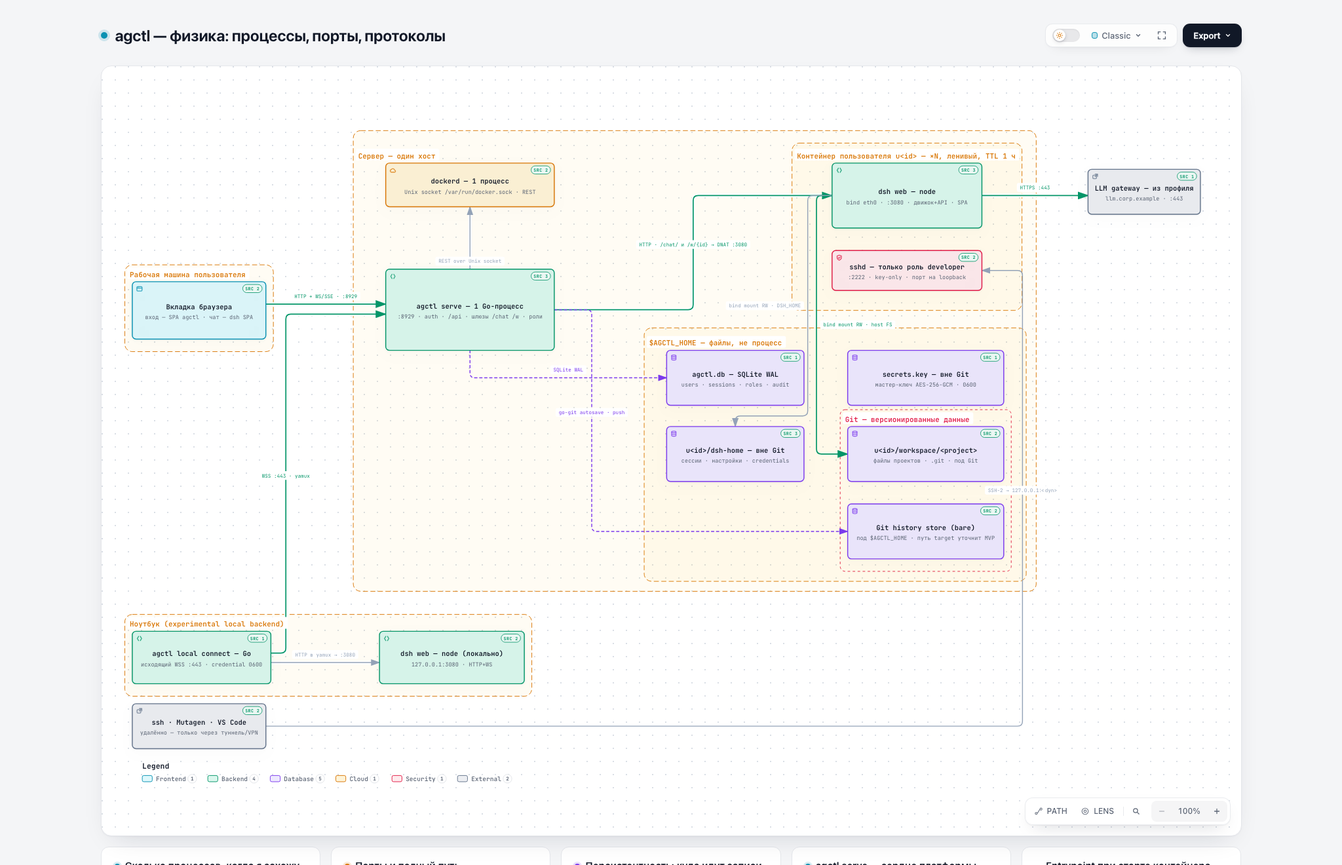
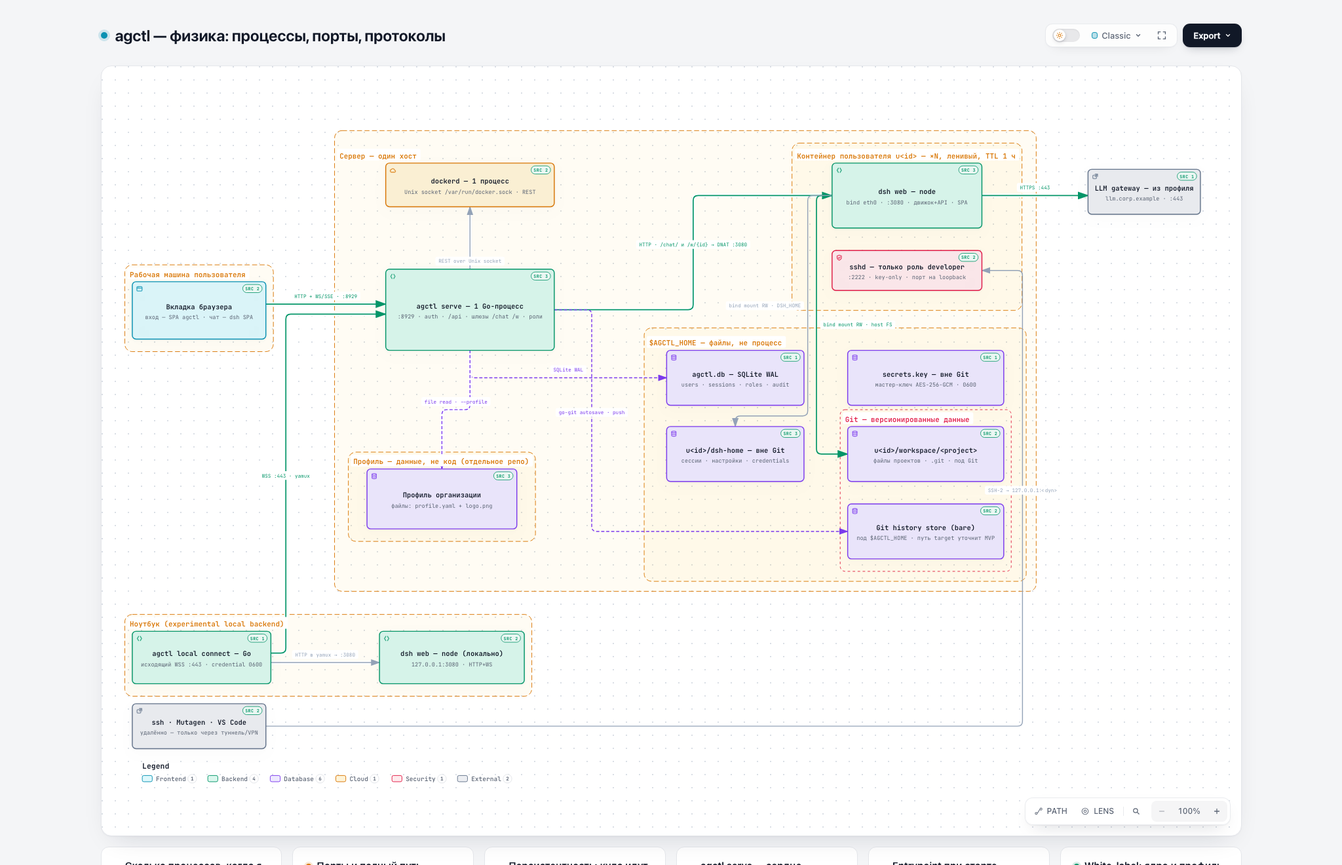
map: white-label слой на физической карте - узел 'Профиль организации' (файлы, не код) в рамке 'Профиль — данные, не код (отдельное репо)', стрелка file read --profile, карточка 'White-label: ядро и профиль', вью v-wl; finalize pass по пину 72fa4218, visual-check свежий

diff --git a/system/map/agctl-processes.html b/system/map/agctl-processes.html
@@ -4982,7 +4982,7 @@ OTHER DEALINGS IN THE FONT SOFTWARE.
       </div>
     </div>
 
-    <script id="archify-source-evidence-data" type="application/json">{"schemaVersion":1,"verified":true,"repository":{"url":"git@github.com:arijjia/agctl","revision":"72fa4218b5ed4935747efb2a39e884a15bf21912","shortRevision":"72fa421","label":"arijjia/agctl","linkMode":"local-only"},"referenceCount":27,"nodes":{"browser":[{"path":"internal/server/server.go","line":318,"endLine":330,"label":"корень: вход → /chat/, сессия → /chat/"},{"path":"internal/server/chatshell.go","line":3,"endLine":27,"label":"pre-paint чат-шелла + brand-boot"}],"serve":[{"path":"cmd/agctl/main.go","line":143,"endLine":264,"label":"cmdServe startup + HTTP listener"},{"path":"internal/server/server.go","line":221,"endLine":311,"label":"API/gateway routes + auth middleware"},{"path":"internal/server/chat.go","line":505,"endLine":581,"label":"lazy per-user runtime + TTL reaper"}],"dockerd":[{"path":"internal/runtime/dockerrt/docker.go","line":54,"label":"docker-клиент (FromEnv)"},{"path":"internal/runtime/dockerrt/docker.go","line":270,"endLine":276,"label":"публикация портов на 127.0.0.1"}],"agdb":[{"path":"cmd/agctl/main.go","line":210,"endLine":213,"label":"store.Open($AGCTL_HOME/agctl.db)"}],"seckey":[{"path":"cmd/agctl/main.go","line":202,"endLine":209,"label":"EnsureMasterKey + secrets.New"}],"dshhome":[{"path":"internal/runtime/dockerrt/chat.go","line":24,"endLine":27,"label":"per-user persistent directories"},{"path":"internal/runtime/dockerrt/docker.go","line":288,"endLine":291,"label":"dsh-home → /home/dsh bind"},{"path":"internal/assets/image/entrypoint.sh","line":10,"endLine":15,"label":"seed при первом старте"}],"wkspace":[{"path":"internal/runtime/dockerrt/chat.go","line":24,"endLine":27,"label":"per-user persistent directories"},{"path":"internal/runtime/dockerrt/docker.go","line":288,"endLine":291,"label":"work → /workspace bind"}],"gitstore":[{"path":"internal/provision/provision.go","line":1,"endLine":5,"label":"bare-origin + клон + autosave"},{"path":"internal/provision/provision.go","line":508,"endLine":544,"label":"AutosaveOnce: commit+push"}],"dshchat":[{"path":"internal/assets/image/entrypoint.sh","line":49,"endLine":51,"label":"выбор eth0-IP + exec dsh web"},{"path":"internal/assets/image/dsh-net.mjs","line":5,"endLine":21,"label":"print: адрес eth0; health: HTTP-проба"},{"path":"internal/runtime/dockerrt/chat.go","line":17,"endLine":71,"label":"EnsureChat: seed + Start (+SSH developer)"}],"sshd":[{"path":"internal/assets/image/entrypoint.sh","line":27,"endLine":46,"label":"sshd только при AGCTL_SSH_PUBKEY"},{"path":"internal/server/chat.go","line":560,"endLine":565,"label":"ключ — только у роли developer"}],"llm":[{"path":"internal/runtime/dockerrt/docker.go","line":251,"endLine":260,"label":"host-gateway + DNS-пины провайдеров"}],"sshclient":[{"path":"cmd/agctl/connect.go","line":12,"endLine":20,"label":"agctl connect"},{"path":"internal/runtime/dockerrt/docker.go","line":273,"endLine":275,"label":"2222 публикуется на loopback"}],"conn":[{"path":"cmd/agctl/local.go","line":22,"endLine":42,"label":"connector: --launch-dsh, WSS"}],"dshlocal":[{"path":"cmd/agctl/local.go","line":32,"endLine":42,"label":"dsh-port 3080, loopback"},{"path":"internal/bridge/bridge.go","line":32,"endLine":43,"label":"authority локального dsh"}]}}</script>
+    <script id="archify-source-evidence-data" type="application/json">{"schemaVersion":1,"verified":true,"repository":{"url":"git@github.com:arijjia/agctl","revision":"72fa4218b5ed4935747efb2a39e884a15bf21912","shortRevision":"72fa421","label":"arijjia/agctl","linkMode":"local-only"},"referenceCount":30,"nodes":{"browser":[{"path":"internal/server/server.go","line":318,"endLine":330,"label":"корень: вход → /chat/, сессия → /chat/"},{"path":"internal/server/chatshell.go","line":3,"endLine":27,"label":"pre-paint чат-шелла + brand-boot"}],"serve":[{"path":"cmd/agctl/main.go","line":143,"endLine":264,"label":"cmdServe startup + HTTP listener"},{"path":"internal/server/server.go","line":221,"endLine":311,"label":"API/gateway routes + auth middleware"},{"path":"internal/server/chat.go","line":505,"endLine":581,"label":"lazy per-user runtime + TTL reaper"}],"dockerd":[{"path":"internal/runtime/dockerrt/docker.go","line":54,"label":"docker-клиент (FromEnv)"},{"path":"internal/runtime/dockerrt/docker.go","line":270,"endLine":276,"label":"публикация портов на 127.0.0.1"}],"agdb":[{"path":"cmd/agctl/main.go","line":210,"endLine":213,"label":"store.Open($AGCTL_HOME/agctl.db)"}],"seckey":[{"path":"cmd/agctl/main.go","line":202,"endLine":209,"label":"EnsureMasterKey + secrets.New"}],"dshhome":[{"path":"internal/runtime/dockerrt/chat.go","line":24,"endLine":27,"label":"per-user persistent directories"},{"path":"internal/runtime/dockerrt/docker.go","line":288,"endLine":291,"label":"dsh-home → /home/dsh bind"},{"path":"internal/assets/image/entrypoint.sh","line":10,"endLine":15,"label":"seed при первом старте"}],"wkspace":[{"path":"internal/runtime/dockerrt/chat.go","line":24,"endLine":27,"label":"per-user persistent directories"},{"path":"internal/runtime/dockerrt/docker.go","line":288,"endLine":291,"label":"work → /workspace bind"}],"gitstore":[{"path":"internal/provision/provision.go","line":1,"endLine":5,"label":"bare-origin + клон + autosave"},{"path":"internal/provision/provision.go","line":508,"endLine":544,"label":"AutosaveOnce: commit+push"}],"dshchat":[{"path":"internal/assets/image/entrypoint.sh","line":49,"endLine":51,"label":"выбор eth0-IP + exec dsh web"},{"path":"internal/assets/image/dsh-net.mjs","line":5,"endLine":21,"label":"print: адрес eth0; health: HTTP-проба"},{"path":"internal/runtime/dockerrt/chat.go","line":17,"endLine":71,"label":"EnsureChat: seed + Start (+SSH developer)"}],"sshd":[{"path":"internal/assets/image/entrypoint.sh","line":27,"endLine":46,"label":"sshd только при AGCTL_SSH_PUBKEY"},{"path":"internal/server/chat.go","line":560,"endLine":565,"label":"ключ — только у роли developer"}],"llm":[{"path":"internal/runtime/dockerrt/docker.go","line":251,"endLine":260,"label":"host-gateway + DNS-пины провайдеров"}],"sshclient":[{"path":"cmd/agctl/connect.go","line":12,"endLine":20,"label":"agctl connect"},{"path":"internal/runtime/dockerrt/docker.go","line":273,"endLine":275,"label":"2222 публикуется на loopback"}],"conn":[{"path":"cmd/agctl/local.go","line":22,"endLine":42,"label":"connector: --launch-dsh, WSS"}],"dshlocal":[{"path":"cmd/agctl/local.go","line":32,"endLine":42,"label":"dsh-port 3080, loopback"},{"path":"internal/bridge/bridge.go","line":32,"endLine":43,"label":"authority локального dsh"}],"profile":[{"path":"internal/profile/profile.go","line":96,"endLine":130,"label":"LoadDir/Resolve: embed + дисковые каталоги"},{"path":"cmd/agctl/main.go","line":147,"endLine":154,"label":"--profile/--profile-dir при старте serve"},{"path":"internal/profile/guard_test.go","line":36,"endLine":40,"label":"ядро без литералов организаций"}]}}</script>
     <script id="archify-i18n-data" type="application/json">{"locale":"en","messages":{"viewer.kind.frontend":"Frontend","viewer.kind.backend":"Backend","viewer.kind.database":"Database","viewer.kind.cloud":"Cloud","viewer.kind.security":"Security","viewer.kind.messagebus":"Message bus","viewer.kind.external":"External","viewer.kind.neutral":"Neutral","viewer.kind.node":"Node","viewer.kind.start":"Start","viewer.kind.active":"Active","viewer.kind.waiting":"Waiting","viewer.kind.decision":"Decision","viewer.kind.success":"Success","viewer.kind.failure":"Failure","viewer.toolbar.actions":"Diagram actions","viewer.theme.toggle.title":"Toggle theme (T)","viewer.theme.toggle":"Toggle color theme","viewer.theme.dark":"Dark","viewer.theme.light":"Light","viewer.preset.choose.title":"Choose visual style (S cycles)","viewer.preset.choose":"Choose visual style","viewer.preset.style":"Style","viewer.preset.menu":"Visual style","viewer.preset.identity":"Visual identity","viewer.preset.cycles":"to cycle","viewer.preset.classic":"Classic","viewer.preset.classic.short":"Classic","viewer.preset.classic.hint":"Stable technical default","viewer.preset.flow":"Signal Flow","viewer.preset.flow.short":"Flow","viewer.preset.flow.hint":"Motion-forward presentation","viewer.preset.blueprint":"Blueprint","viewer.preset.blueprint.hint":"Engineering review","viewer.preset.editorial":"Editorial","viewer.preset.editorial.hint":"Publication and launch notes","viewer.preset.badge.signalFlow":"SIGNAL FLOW","viewer.preset.badge.blueprint":"BLUEPRINT / REV 01","viewer.preset.badge.editorial":"EDITORIAL / FIELD NOTE","viewer.preset.badge.editorialPlate":"ARCHIFY / PLATE 04","viewer.preset.current":"Visual style: {style}. Choose visual style","viewer.motion.live":"Live","viewer.motion.still":"Still","viewer.motion.pause":"Pause motion","viewer.motion.resume":"Resume motion","viewer.motion.reduced":"Motion paused by reduced-motion preference","viewer.motion.hidden":"Motion paused while this page is hidden","viewer.motion.yielding":"Pause motion; currently yielding to {owner}","viewer.motion.yielding.title":"Live preview enabled · yielding to {owner}","viewer.owner.route":"Route Probe","viewer.owner.lens":"Semantic Lens","viewer.owner.relationship":"Relationship Preview","viewer.owner.intent":"Intent Trace","viewer.owner.focus":"semantic focus","viewer.owner.legend":"legend preview","viewer.owner.reader":"reader interaction","viewer.present.enter":"Enter presentation stage","viewer.present.enter.title":"Presentation stage (F)","viewer.present.exit":"Exit presentation stage","viewer.present.exit.title":"Exit presentation stage (F or Escape)","viewer.present.present":"Present","viewer.present.exit.label":"Exit","viewer.export.button":"Export","viewer.export.button.title":"Export diagram (E)","viewer.export.diagram":"Export diagram","viewer.export.menu":"Export","viewer.export.subtitle":"Portable, clean outputs","viewer.export.share":"Share","viewer.export.shareCard":"Share Card","viewer.export.routeShareCard":"Route Share Card","viewer.export.reachShareCard":"Reach Share Card","viewer.export.copyDiagram":"Copy diagram","viewer.export.clipboardPng":"PNG to clipboard","viewer.export.raster":"Raster images","viewer.export.image":"Image","viewer.export.lossless":"Lossless image","viewer.export.compact":"Compact image","viewer.export.modern":"Modern image","viewer.export.vectorMotion":"Vector and motion","viewer.export.vectorMotion.heading":"Vector \u0026 motion","viewer.export.editable":"Editable vector","viewer.export.svg.auto":"SVG · Auto","viewer.export.svg.auto.hint":"Matches host theme","viewer.export.svg.light":"SVG · Light","viewer.export.svg.light.hint":"Always light","viewer.export.svg.dark":"SVG · Dark","viewer.export.svg.dark.hint":"Always dark","viewer.export.motion6s":"6s motion","viewer.export.unsupported":"Not supported by this browser","viewer.export.clipboardUnsupported":"Clipboard image write not supported by this browser","viewer.export.clipboardUnsupported.short":"Clipboard image write not supported in this browser.","viewer.export.motionUnavailable":"Motion capture unavailable in this browser","viewer.export.webmUnavailable":"WebM unavailable in this browser","viewer.export.failed":"Export failed: {message}","viewer.export.unknownVariant":"Unknown Share Card variant: {variant}","viewer.export.routeRequired":"Trace a route before exporting a Route Share Card","viewer.export.reachRequired":"Trace authored reach before exporting a Reach Share Card","viewer.export.unknown":"unknown","viewer.export.routeFailed":"Route Share Card export failed: {message}","viewer.export.reachFailed":"Reach Share Card export failed: {message}","viewer.export.copyFailed":"Copy failed: {message}","viewer.export.copiedPng":"Copied PNG to clipboard","viewer.export.downloadedRoute":"Downloaded Route Share Card","viewer.export.downloadedReach":"Downloaded Reach Share Card","viewer.export.downloadedWebm":"Downloaded WebM","viewer.export.recording":"Recording 6 seconds of motion…","viewer.export.card.routeSummary.one":"Path: {source} → {target} · {count} step","viewer.export.card.routeSummary.other":"Path: {source} → {target} · {count} steps","viewer.export.card.reachSummary":"Authored {direction} from {origin} · {nodes} · {links} · max {hops}","viewer.export.card.node.one":"{count} node","viewer.export.card.node.other":"{count} nodes","viewer.export.card.link.one":"{count} link","viewer.export.card.link.other":"{count} links","viewer.export.card.hop.one":"{count} hop","viewer.export.card.hop.other":"{count} hops","viewer.export.card.routeBadge":"ARCHIFY · ROUTE · {hops}","viewer.export.card.reachBadge":"ARCHIFY · {direction} REACH","viewer.export.direction.upstream":"Upstream","viewer.export.direction.downstream":"Downstream","viewer.export.error.canvasUnavailable":"Canvas unavailable for {label}","viewer.export.error.contextUnavailable":"2D canvas context unavailable for {label}","viewer.export.error.toBlobUnavailable":"canvas.toBlob unavailable for {label}","viewer.export.error.toBlobNull":"canvas.toBlob returned no data for {label}","viewer.export.error.variantsCombined":"Share Card variants cannot be combined","viewer.export.error.viewerState":"Share Card export could not remove temporary viewer state","viewer.export.error.routeState":"Route Card export could not preserve the resolved route safely","viewer.export.error.reachState":"Reach Card export could not preserve authored reach safely","viewer.export.error.webmRequirements":"WebM motion export requires a trace animation and browser MediaRecorder support","viewer.export.error.mediaRecorder":"MediaRecorder failed","viewer.export.error.emptyWebm":"MediaRecorder produced an empty WebM","viewer.export.error.webmBackground":"SVG background could not be loaded for WebM export","viewer.guide.title":"Explore this system","viewer.focus.selectedNodes":"{count} selected nodes","viewer.guide.eyebrow":"Diagram guide","viewer.guide.close":"Close diagram guide","viewer.guide.inspecting":"Inspecting compiled semantics","viewer.guide.actions":"Diagram exploration actions","viewer.guide.find":"Find any node","viewer.guide.find.hint":"Search labels, responsibilities, kinds, and stable IDs.","viewer.guide.route":"Trace a route","viewer.guide.route.aria":"Trace a directed route","viewer.guide.route.hint":"Ask how two semantic nodes connect in authored direction.","viewer.guide.map":"See the whole system","viewer.guide.map.hint":"Open Semantic Radar with a live viewport and stable nodes.","viewer.guide.lens":"Compare semantic kinds","viewer.guide.lens.hint":"Count roles, reveal their traffic, and compare direct authored links.","viewer.guide.present":"Enter Presentation Stage","viewer.guide.present.hint":"Give the live diagram the viewport without changing export.","viewer.guide.shortcuts":"Additional keyboard shortcuts","viewer.guide.shortcut.export":"Export","viewer.guide.shortcut.theme":"Theme","viewer.guide.shortcut.style":"Style","viewer.guide.shortcut.reset":"Reset","viewer.guide.shortcut.zoomIn":"Zoom in","viewer.guide.shortcut.zoomOut":"Zoom out","viewer.guide.shortcut.close":"Close","viewer.guide.facts":"{nodes} · {relationships}","viewer.guide.fact.node.one":"{count} semantic node","viewer.guide.fact.node.other":"{count} semantic nodes","viewer.guide.fact.relationship.one":"{count} relationship","viewer.guide.fact.relationship.other":"{count} relationships","viewer.guide.open":"Open diagram guide","viewer.finder.title":"Find a node","viewer.finder.close":"Close node finder","viewer.finder.placeholder":"Search labels or IDs","viewer.finder.search":"Search diagram nodes","viewer.finder.results":"Diagram nodes","viewer.finder.empty":"No matching nodes","viewer.finder.result.focus":"Focus {label}","viewer.finder.result.routeStart":"Choose {label} as route start","viewer.finder.result.routeTarget":"Choose {label} as route destination, {links}","viewer.finder.status.empty":"No matching nodes","viewer.finder.status.count.one":"{count} matching node","viewer.finder.status.count.other":"{count} matching nodes","viewer.finder.noun.nodes":"nodes","viewer.finder.link.one":"{count} link","viewer.finder.link.other":"{count} links","viewer.finder.result.focus.one":"Focus {label}, {count} related connection","viewer.finder.result.focus.other":"Focus {label}, {count} related connections","viewer.finder.status.filtered":"{visible} of {available} {noun}","viewer.finder.status.all":"{available} {noun}","viewer.passport.eyebrow":"Semantic passport","viewer.passport.metadata":"Node metadata","viewer.passport.evidence":"Verified source evidence","viewer.passport.verified":"Verified source","viewer.passport.verificationScope":"Verified against local Git at the pinned revision. Remote access has not been checked.","viewer.passport.reach":"Authored reach","viewer.passport.reach.trace":"Trace authored reachability","viewer.passport.upstream":"Upstream","viewer.passport.downstream":"Downstream","viewer.passport.upstream.trace":"Trace upstream authored reachability","viewer.passport.downstream.trace":"Trace downstream authored reachability","viewer.passport.close":"Close semantic passport","viewer.passport.move":"Move semantic passport. Drag, use arrow keys, or press Home to reset.","viewer.passport.copy":"Copy link","viewer.passport.copy.focus":"Copy link to focused node","viewer.passport.relations":"Relations","viewer.passport.relations.show":"Show connected relationships","viewer.passport.relations.hide":"Hide connected relationships","viewer.passport.relations.list":"Connected relationships","viewer.passport.copyRelation":"Copy relation","viewer.passport.copyNode":"Copy node","viewer.passport.copyPinned":"Copy link to pinned relationship","viewer.passport.copySource":"Copy link to source node","viewer.passport.copy.focused.success":"Focused node link copied","viewer.passport.copy.pinned.success":"Pinned relationship link copied","viewer.passport.copy.focused.failed":"Could not copy focused node link","viewer.passport.copy.pinned.failed":"Could not copy pinned relationship link","viewer.passport.relationship.none":"No connected relationships","viewer.passport.relationship.count.one":"{count} relation","viewer.passport.relationship.count.other":"{count} relations","viewer.passport.relationship.show.one":"Show {count} connected relationship","viewer.passport.relationship.show.other":"Show {count} connected relationships","viewer.passport.relationship.summary":"{out} outgoing · {in} incoming{loops}","viewer.passport.relationship.loops":" · {count} loop","viewer.passport.relationship.explorer":"Direct relationship explorer","viewer.passport.relationship.help":"Use arrow keys to explore relationships. Press Enter or Space to pin details; Escape clears.","viewer.passport.relationship.loopsBack":"loops back","viewer.passport.relationship.connectsTo":"connects to","viewer.passport.relationship.connectsFrom":"connects from","viewer.passport.relationship.pinned":"Pinned relationship · {from} → {to} · {label}","viewer.passport.relationship.inspect":"Inspect relationship {index} of {total}: {from} to {to}, {label}. Press Enter for details.","viewer.passport.relationship.group.out":"Outgoing","viewer.passport.relationship.group.in":"Incoming","viewer.passport.relationship.group.loop":"Self loops","viewer.passport.relationship.row":"{group}: {relationship}, {neighbor}","viewer.passport.relationship.direction.out":"OUT →","viewer.passport.relationship.direction.in":"← IN","viewer.passport.relationship.direction.loop":"LOOP","viewer.passport.sourceCount.one":"{count} verified source reference","viewer.passport.sourceCount.other":"{count} verified source references","viewer.passport.sourceMarker":"SRC","viewer.passport.beacon.one":"{count} verified source; focus this node to inspect","viewer.passport.beacon.other":"{count} verified sources; focus this node to inspect","viewer.passport.repository.open":"Open verified repository revision {revision}","viewer.passport.source.open":"Open verified source {path} at revision {revision}","viewer.passport.source.openLink":"Open ↗","viewer.passport.reach.upstream.one":"Trace {count} upstream authored node","viewer.passport.reach.upstream.other":"Trace {count} upstream authored nodes","viewer.passport.reach.downstream.one":"Trace {count} downstream authored node","viewer.passport.reach.downstream.other":"Trace {count} downstream authored nodes","viewer.passport.reach.noUpstream":"No upstream authored nodes","viewer.passport.reach.noDownstream":"No downstream authored nodes","viewer.passport.reach.status":"{direction} · {nodes} nodes · {links} links · max {hops} hops","viewer.route.eyebrow":"Path","viewer.route.start":"Click where the path starts","viewer.route.start.find":"Find start","viewer.route.start.find.aria":"Find a route start","viewer.route.copy":"Copy link","viewer.route.copy.aria":"Copy link to traced route","viewer.route.clear":"Clear","viewer.route.clear.aria":"Clear route probe","viewer.route.traced":"Path","viewer.route.pickTwo":"Click two nodes on the diagram","viewer.route.pickOne":"Click a node on the diagram","viewer.route.controls":"Route journey controls","viewer.route.previous":"Previous route position","viewer.route.play":"Play route journey","viewer.route.pause":"Pause route journey","viewer.route.replay":"Replay route journey","viewer.route.next":"Next route position","viewer.route.journey":"Journey","viewer.route.pause.label":"Pause","viewer.route.replay.label":"Replay","viewer.route.overview":"Overview","viewer.route.overview.aria":"Show complete route overview","viewer.route.instructions":"Click a start, then an end. Paths follow the arrows.","viewer.route.destination":"Where does the path from {label} end?","viewer.route.destination.find":"Find target","viewer.route.destination.find.aria":"Find a reachable route destination","viewer.route.differentDestination":"Choose a different destination","viewer.route.distinct":"Pick two different nodes.","viewer.route.unreachable":"Cannot reach {label} from here","viewer.route.unreachable.detail":"{target} cannot be reached from {source} along the arrows. Pick a highlighted node.","viewer.route.start.instructions":"Next, pick the end. Only nodes you can reach will light up.","viewer.route.copy.success":"Traced route link copied","viewer.route.copy.failed":"Could not copy traced route link","viewer.route.position":"Route position {index} of {total}: {label}","viewer.route.step":"Step {index} of {total} · {phase} · {label}","viewer.route.motionRequired":"Automatic journey requires Live motion","viewer.route.trigger.clear":"Clear traced route","viewer.route.overview.status":"{nodes} · {hops} · shortest path","viewer.route.overview.node.one":"{count} node","viewer.route.overview.node.other":"{count} nodes","viewer.route.overview.hop.one":"{count} step","viewer.route.overview.hop.other":"{count} steps","viewer.route.phase.playing":"Playing","viewer.route.phase.complete":"Complete","viewer.route.phase.inspecting":"Inspecting","viewer.route.destination.count.one":"{count} reachable node is highlighted. Click it.","viewer.route.destination.count.other":"{count} reachable nodes are highlighted. Click one.","viewer.route.noOutgoing":"No arrows lead out of this node. Clear it and pick another start.","viewer.route.result.title":"{source} to {target}","viewer.route.finder.source.title":"Choose route start","viewer.route.finder.source.placeholder":"Search route sources","viewer.route.finder.source.empty":"No matching route sources","viewer.route.finder.source.results":"Nodes that can start a route","viewer.route.finder.source.noun":"route sources","viewer.route.finder.source.badge":"start","viewer.route.finder.target.title":"Destination from {label}","viewer.route.finder.target.placeholder":"Search reachable destinations","viewer.route.finder.target.empty":"No matching reachable destinations","viewer.route.finder.target.results":"Reachable route destinations","viewer.route.finder.target.noun":"reachable destinations","viewer.route.hop.one":"{count} hop","viewer.route.hop.other":"{count} hops","viewer.lens.eyebrow":"Semantic lens","viewer.lens.title":"Compare system roles","viewer.lens.close":"Close semantic lens","viewer.lens.instruction":"Choose up to two semantic kinds. One reveals its real traffic; two compare only direct authored relationships.","viewer.lens.kinds":"Semantic kinds","viewer.lens.choose":"Choose a kind to inspect its nodes and touching relationships.","viewer.lens.copy":"Copy link to semantic lens","viewer.lens.clear":"Clear semantic lens","viewer.lens.open":"Open semantic lens","viewer.lens.openActive":"Open active semantic lens","viewer.lens.legend":"Semantic legend","viewer.lens.legend.inspect.one":"Inspect {label}, {count} node","viewer.lens.legend.inspect.other":"Inspect {label}, {count} nodes","viewer.lens.kind.count.one":"{label}, {count} node","viewer.lens.kind.count.other":"{label}, {count} nodes","viewer.lens.compare.one":"{first} → {second}: {forward} · {second} → {first}: {reverse} · {count} direct relationship","viewer.lens.compare.other":"{first} → {second}: {forward} · {second} → {first}: {reverse} · {count} direct relationships","viewer.lens.single":"{nodes} · {relationships} · connected peers remain visible","viewer.lens.node.one":"{count} {label} node","viewer.lens.node.other":"{count} {label} nodes","viewer.lens.relationship.one":"{count} touching relationship","viewer.lens.relationship.other":"{count} touching relationships","viewer.radar.title":"Semantic radar","viewer.radar.building":"Building overview","viewer.radar.openFull":"Open full semantic radar","viewer.radar.open":"Open radar","viewer.radar.close":"Close semantic radar","viewer.radar.surface":"Diagram overview. Click a node to focus it, or use arrow keys to pan.","viewer.radar.click":"Click node","viewer.radar.drag":"Drag to pan","viewer.radar.space":"Semantic radar needs more MAP space.","viewer.radar.nodes":"Semantic diagram radar nodes","viewer.radar.focus":"Focus {label} from Semantic Radar","viewer.radar.status":"{count} nodes · {viewport}","viewer.radar.fullMap":"{count} nodes · full map","viewer.radar.compacted":"Radar compacted to avoid covering the Semantic Passport or MAP controls.","viewer.radar.cancelWaiting":"Cancel semantic radar waiting for more MAP space","viewer.radar.needsSpace":"Semantic radar needs more visible MAP space","viewer.radar.viewport.full":"full map","viewer.radar.viewport.width":"{percent}% width","viewer.radar.viewport.scale":"{percent}% viewport","viewer.nav.controls":"Diagram view controls","viewer.nav.route":"Trace a directed route","viewer.nav.route.title":"Trace route (R)","viewer.nav.route.short":"PATH","viewer.nav.radar":"Open semantic radar","viewer.nav.radar.title":"Semantic radar (M)","viewer.nav.radar.short":"MAP","viewer.nav.lens":"Open semantic lens","viewer.nav.lens.title":"Semantic lens (L)","viewer.nav.lens.short":"LENS","viewer.nav.find":"Find a node","viewer.nav.find.title":"Find a node (/)","viewer.outline.title":"Node index","viewer.rail.show":"Notes \u0026 index","viewer.rail.controls":"Side panel","viewer.rail.collapse":"Collapse side panel","viewer.rail.bottom":"Move panel below the diagram","viewer.rail.right":"Move panel beside the diagram","viewer.nav.guide":"Open diagram guide","viewer.nav.guide.title":"Diagram guide (?)","viewer.nav.zoomOut":"Zoom out","viewer.nav.zoomOut.title":"Zoom out (-)","viewer.nav.reset":"Reset diagram view","viewer.nav.reset.title":"Reset view (0)","viewer.nav.read":"READ","viewer.nav.zoomIn":"Zoom in","viewer.nav.zoomIn.title":"Zoom in (+)","viewer.nav.camera":"{hint}. Reset diagram view","viewer.nav.camera.title":"{semantic}{hint} · reset view (0)","viewer.nav.camera.semantic":"Semantic camera active · ","viewer.nav.level.map":"MAP","viewer.nav.level.read":"READ","viewer.nav.level.full":"FULL","viewer.nav.level.auto":"AUTO","viewer.nav.detail.map":"Zoom in to reveal relationship labels and node context","viewer.nav.detail.read":"Zoom in again to reveal tags and annotations","viewer.nav.detail.full":"Full diagram detail","viewer.intent.summary":"{label}. {out} outgoing, {in} incoming{loops}. {total} connections. Press Enter for details.","viewer.intent.loops":", {count} self loop","viewer.common.copied":"Copied","viewer.common.copyFailed":"Copy failed","viewer.common.copyLink":"Copy link","viewer.common.clear":"Clear","viewer.common.close":"Close"}}</script>
     <!-- Main Diagram -->
     <div class="diagram-container" data-detail-level="read"
@@ -5023,7 +5023,9 @@ OTHER DEALINGS IN THE FONT SOFTWARE.
 
         <rect data-graph-role="structural-frame" data-composition-frame-kind="security-group" data-composition-frame-id="4" data-composition-frame-label="Git — версионированные данные" x="1158" y="525" width="274" height="259" rx="8" class="c-security-group" stroke-width="1"/>
 
-        <rect data-graph-role="structural-frame" data-composition-frame-kind="region" data-composition-frame-id="5" data-composition-frame-label="Сервер — один хост" x="378" y="78" width="1094" height="738" rx="12" class="c-region" stroke-width="1"/>
+        <rect data-graph-role="structural-frame" data-composition-frame-kind="region" data-composition-frame-id="5" data-composition-frame-label="Сервер — один хост" x="348" y="78" width="1124" height="738" rx="12" class="c-region" stroke-width="1"/>
+
+        <rect data-graph-role="structural-frame" data-composition-frame-kind="region" data-composition-frame-id="6" data-composition-frame-label="Профиль — данные, не код (отдельное репо)" x="370.1451489903226" y="593" width="299.70970201935484" height="143" rx="12" class="c-region" stroke-width="1"/>
 
         <!-- Connection paths (before components for correct z-order) -->
         <g data-graph-role="automatic-crossover" style="--step:0">
@@ -5055,6 +5057,10 @@ OTHER DEALINGS IN THE FONT SOFTWARE.
         <path data-edge-from="dshchat" data-edge-to="wkspace" data-edge-label="bind mount RW · host FS" data-edge-key="8" data-edge-id="c13" data-composition-points="1145,182;1120,182;1120,596;1170,596" d="M 1145 182 L 1128 182 Q 1120 182 1120 190 L 1120 588 Q 1120 596 1128 596 L 1170 596" class="a-emphasis" stroke-width="1.8" marker-end="url(#arrowhead-emphasis)"/>
         <path data-edge-from="dshchat" data-edge-to="dshhome" data-edge-label="bind mount RW · DSH_HOME" data-edge-key="9" data-edge-id="c14" data-composition-points="1145,182;1106,182;1106,535;990,535;990,552" d="M 1145 182 L 1114 182 Q 1106 182 1106 190 L 1106 527 Q 1106 535 1098 535 L 998 535 Q 990 535 990 543 L 990 552" class="a-default" stroke-width="1.5" marker-end="url(#arrowhead)"/>
         <path data-edge-from="serve" data-edge-to="gitstore" data-edge-label="go-git autosave · push" data-edge-key="10" data-edge-id="c15" data-composition-points="700,365;760,365;760,720;1170,720" d="M 700 365 L 752 365 Q 760 365 760 373 L 760 712 Q 760 720 768 720 L 1170 720" class="a-dashed" stroke-width="1.5" marker-end="url(#arrowhead-dashed)"/>
+        <g data-graph-role="automatic-crossover" style="--step:11">
+          <path data-graph-role="automatic-crossover-underlay" d="M 565 430 L 565 517 Q 565 525 557 525 L 528 525 Q 520 525 520 533 L 520 620" fill="none" stroke="var(--mask)" stroke-width="5.5" stroke-linecap="round" stroke-linejoin="round" pointer-events="none"/>
+          <path data-edge-from="serve" data-edge-to="profile" data-edge-label="file read · --profile" data-edge-key="11" data-edge-id="c16" data-composition-points="565,430;565,525;520,525;520,620" data-composition-crossover="halo" data-composition-independent="true" d="M 565 430 L 565 517 Q 565 525 557 525 L 528 525 Q 520 525 520 533 L 520 620" class="a-dashed" stroke-width="1.5" marker-end="url(#arrowhead-dashed)"/>
+        </g>
 
         <!-- Components -->
         <g id="node-browser" data-node-id="browser" data-node-label="Вкладка браузера" tabindex="0" role="button" aria-label="Focus Вкладка браузера, вход — SPA agctl · чат — dsh SPA, Рабочая машина пользователя" aria-pressed="false" data-node-kind="frontend" data-node-sublabel="вход — SPA agctl · чат — dsh SPA" data-node-context="Рабочая машина пользователя">
@@ -5222,6 +5228,18 @@ OTHER DEALINGS IN THE FONT SOFTWARE.
         <text data-detail="context" x="536" y="936" class="t-muted" font-size="9" text-anchor="middle">127.0.0.1:3080 · HTTP+WS</text>
         </g>
 
+        <g id="node-profile" data-node-id="profile" data-node-label="Профиль организации" tabindex="0" role="button" aria-label="Focus Профиль организации, файлы: profile.yaml + logo.png, Сервер — один хост › Профиль — данные, не код (отдельное репо)" aria-pressed="false" data-node-kind="database" data-node-sublabel="файлы: profile.yaml + logo.png" data-node-context="Сервер — один хост › Профиль — данные, не код (отдельное репо)">
+          <title>Профиль организации · файлы: profile.yaml + logo.png · Сервер — один хост › Профиль — данные, не код (отдельное репо)</title>
+          <rect x="400" y="620" width="240" height="96" rx="6" class="c-mask"/>
+          <rect x="400" y="620" width="240" height="96" rx="6" class="c-database" stroke-width="1.5"/>
+          <g aria-hidden="true" data-semantic-sigil="database" class="semantic-sigil s-database" transform="translate(406 626) scale(0.6875)">
+            <ellipse cx="8" cy="4" rx="5" ry="2"/>
+            <path d="M3 4v8c0 1.1 2.2 2 5 2s5-.9 5-2V4M3 8c0 1.1 2.2 2 5 2s5-.9 5-2"/>
+          </g>
+          <text data-node-label="" data-detail-anchor="" x="520" y="666" class="t-primary" font-size="11" font-weight="600" text-anchor="middle">Профиль организации</text>
+        <text data-detail="context" x="520" y="682" class="t-muted" font-size="9" text-anchor="middle">файлы: profile.yaml + logo.png</text>
+        </g>
+
         <!-- Connection labels -->
         <g data-detail="context" data-edge-from="browser" data-edge-to="serve" data-edge-label="HTTP + WS/SSE · :8929" data-edge-key="0" data-edge-id="c1">
           <rect x="278.6" y="335.9" width="110.8" height="14" rx="3" class="c-mask"/>
@@ -5267,6 +5285,10 @@ OTHER DEALINGS IN THE FONT SOFTWARE.
           <rect x="702.2" y="522.5" width="115.6" height="14" rx="3" class="c-mask"/>
           <text x="760" y="532.5" class="t-edge-dashed" font-size="8" text-anchor="middle">go-git autosave · push</text>
         </g>
+        <g data-detail="context" data-edge-from="serve" data-edge-to="profile" data-edge-label="file read · --profile" data-edge-key="11" data-edge-id="c16">
+          <rect x="487.1" y="505" width="110.8" height="14" rx="3" class="c-mask"/>
+          <text x="542.5" y="515" class="t-edge-dashed" font-size="8" text-anchor="middle">file read · --profile</text>
+        </g>
 
         <!-- Boundary labels (foreground masks keep routes out of titles) -->
         <g data-graph-role="structural-frame-label" data-composition-frame-id="0" data-composition-frame-kind="region" data-composition-frame-label="Рабочая машина пользователя">
@@ -5295,8 +5317,13 @@ OTHER DEALINGS IN THE FONT SOFTWARE.
         </g>
 
         <g data-graph-role="structural-frame-label" data-composition-frame-id="5" data-composition-frame-kind="region" data-composition-frame-label="Сервер — один хост">
-          <rect data-graph-role="structural-frame-label-mask" x="382" y="107" width="133.6774301548387" height="19" rx="3" class="c-mask"/>
-          <text data-boundary-label="" x="386" y="122.4516139032258" class="t-cloud" font-size="11.451613903225807" font-weight="600">Сервер — один хост</text>
+          <rect data-graph-role="structural-frame-label-mask" x="352" y="107" width="133.6774301548387" height="19" rx="3" class="c-mask"/>
+          <text data-boundary-label="" x="356" y="122.4516139032258" class="t-cloud" font-size="11.451613903225807" font-weight="600">Сервер — один хост</text>
+        </g>
+
+        <g data-graph-role="structural-frame-label" data-composition-frame-id="6" data-composition-frame-kind="region" data-composition-frame-label="Профиль — данные, не код (отдельное репо)">
+          <rect data-graph-role="structural-frame-label-mask" x="374.1451489903226" y="597" width="291.70970201935484" height="19" rx="3" class="c-mask"/>
+          <text data-boundary-label="" x="378.1451489903226" y="612.4516139032258" class="t-cloud" font-size="11.451613903225807" font-weight="600">Профиль — данные, не код (отдельное репо)</text>
         </g>
 
         <!-- Legend -->
@@ -5570,6 +5597,19 @@ OTHER DEALINGS IN THE FONT SOFTWARE.
           <li>Entrypoint при пустом DSH_HOME досеивает скелет настроек и плагинов из образа; рабочие файлы проектов остаются на маунте.</li>
           <li>Если передан AGCTL_SSH_PUBKEY (роль developer), скрипт готовит key-only конфиг, проверяет его и запускает sshd :2222 в фоне.</li>
           <li>Затем вычисляет eth0-адрес (agctl-dsh-net print) и выполняет exec dsh web --host &lt;ip&gt; --port 3080: shell заменяется главным процессом dsh.</li>
+        </ul>
+      </div>
+
+      <div class="card">
+        <div class="card-header">
+          <div class="card-dot emerald"></div>
+          <h3>White-label: ядро и профиль</h3>
+        </div>
+        <ul>
+          <li>Ядро agctl — универсальное: ни одного литерала организации в коде; проверяет guard-тест TestCoreIsOrganizationFree (internal/profile/guard_test.go)</li>
+          <li>Кастомизация — данные-профиль: profile.yaml + assets/logo.png в отдельном репо (agctl-profile-utmn), приватность не зависит от ядра</li>
+          <li>agctl serve читает профиль при старте (--profile/--profile-dir, make profile-fetch) и инжектит window.__AGCTL_BRAND__ в &lt;head&gt; до первого кадра</li>
+          <li>Дефолты чата и подпись LLM на этой карте берутся из профиля; секреты (API-ключи) в профиль не входят — env/SQLite как раньше</li>
         </ul>
       </div>
     </div>
